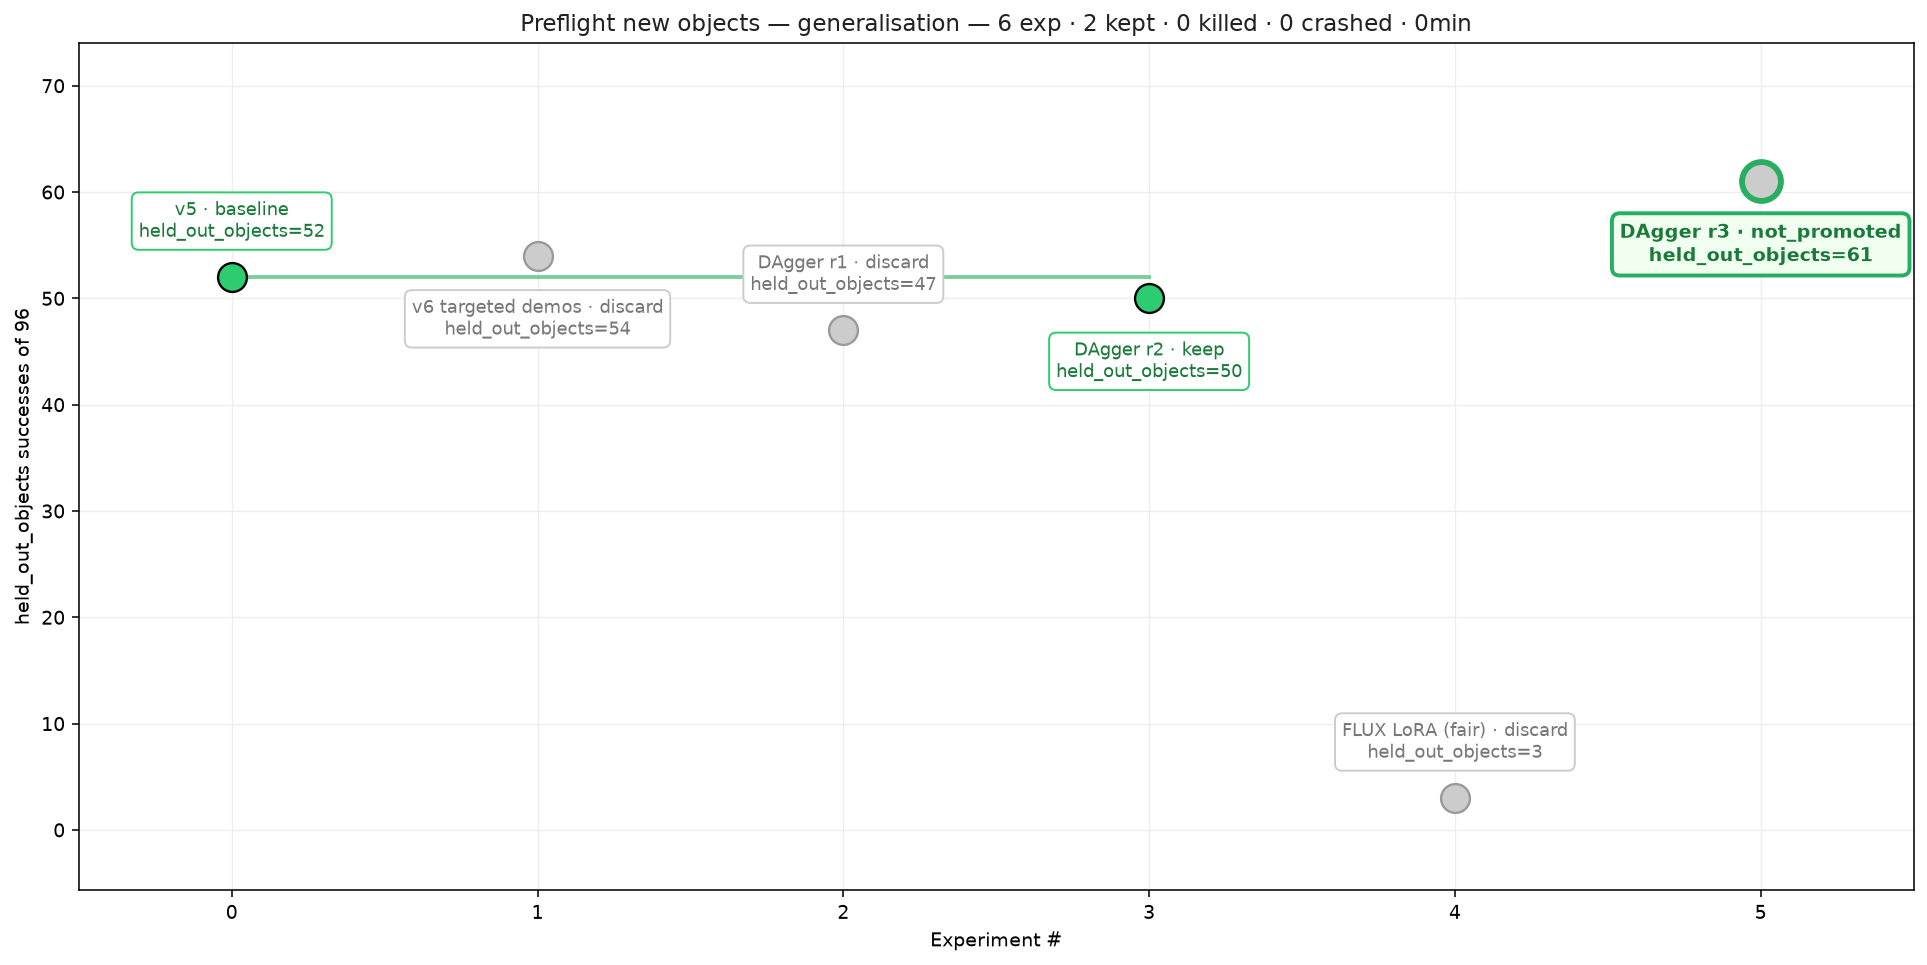
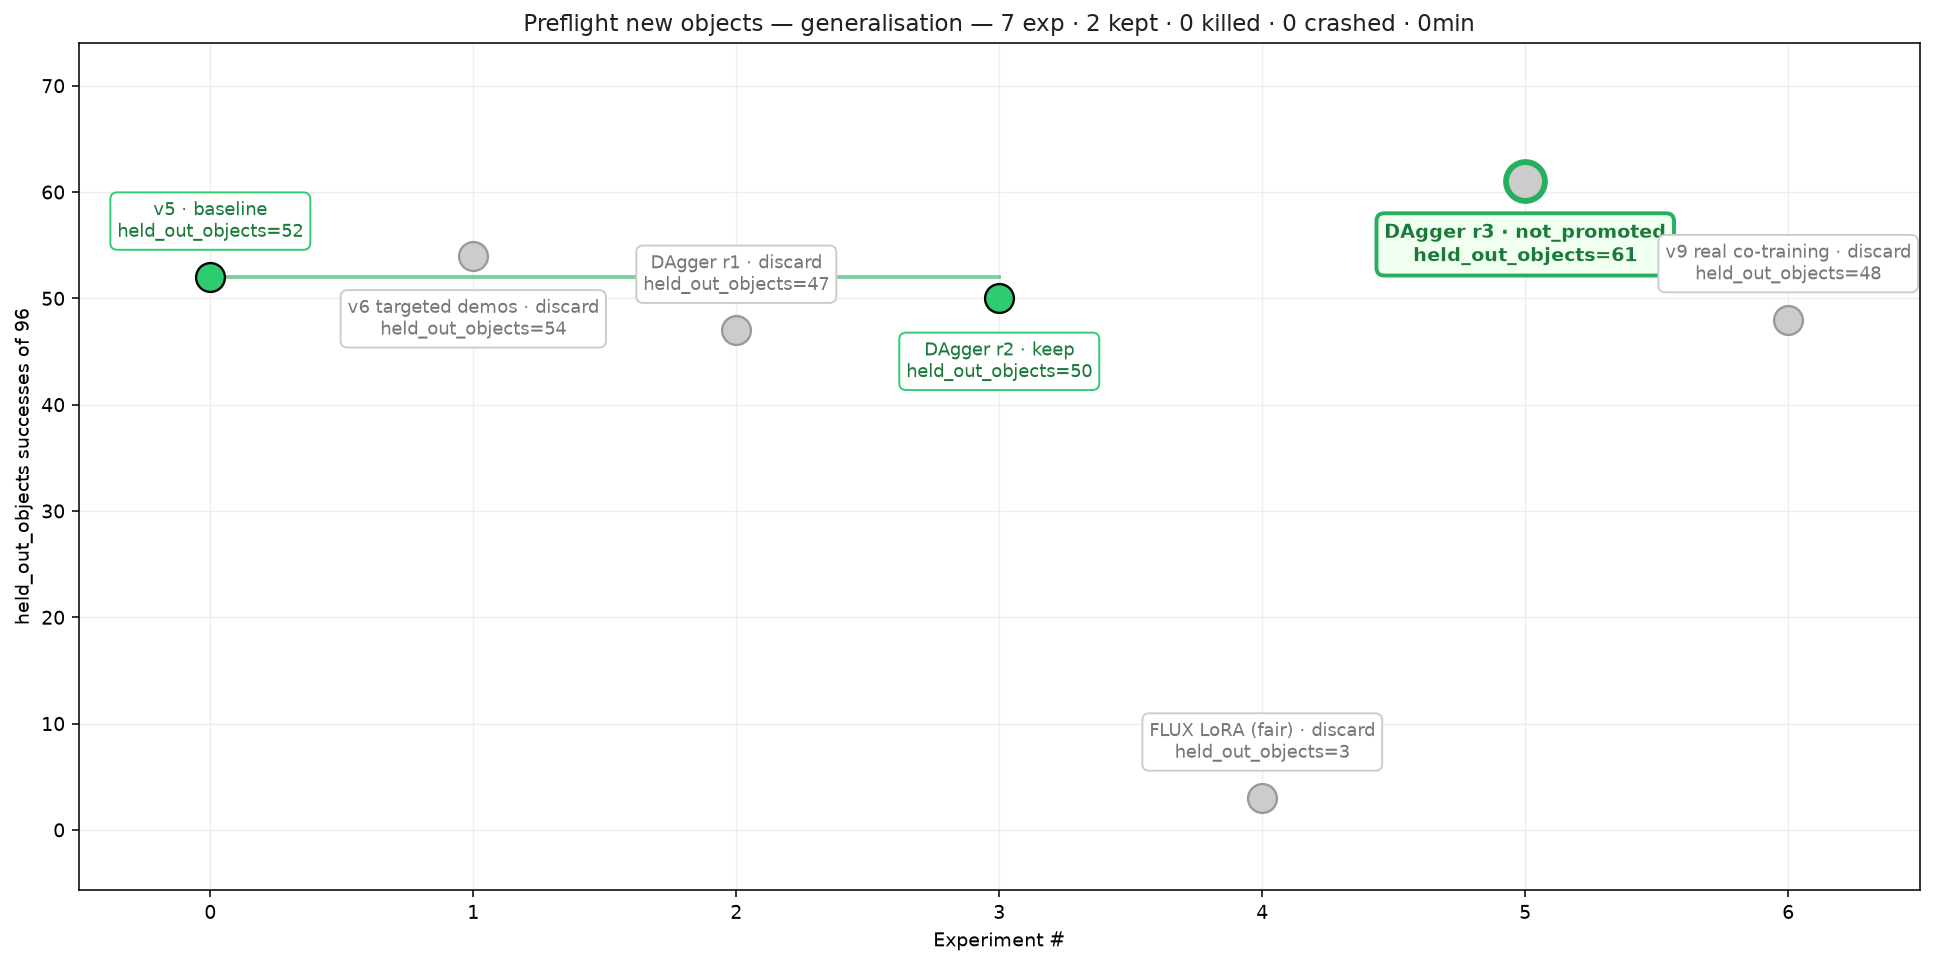
docs: v9 real-data co-training discarded (373 vs 438, no gain on new objects)

diff --git a/docs/artifact.html b/docs/artifact.html
@@ -64,7 +64,7 @@ footer { font-size: 13px; color: var(--muted); }
 
 <main>
 <header>
-  <div class="eyebrow">Preflight · SO-101 · MuJoCo twin · updated 11 Oct 2026, 07:30 UTC</div>
+  <div class="eyebrow">Preflight · SO-101 · MuJoCo twin · updated 11 Oct 2026, 15:30 UTC</div>
   <h1>Nine attempts to make a GR00T arm policy generalise. One passed the gate; one moved new objects.</h1>
   <p class="lede">Every candidate runs the same six suites (12 scenes × 8 perturbed rehearsals, seed 42) and is compared with v5 scene by scene (paired McNemar). It is promoted only with a pooled gain and no suite significantly worse, a gate fixed before the first round was scored. Everything is simulation; the physical arm has not arrived.</p>
   <div class="headline">
@@ -77,8 +77,8 @@ footer { font-size: 13px; color: var(--muted); }
 
 <section>
   <h2>Scoreboard</h2>
-  <p class="takeaway">DAgger round 2 cleared the gate; round 3 scores higher still (481) but its pooled gain over round 2 is within noise. FLUX, trained on the same demos for the same volume, collapses.</p>
-  <div class="chart"><div class="scroll"><svg viewBox="0 0 640 220" width="100%" style="min-width:520px" role="img" aria-label="Pooled successes of 576 per candidate"><text x="162" y="24" text-anchor="end" class="lab">v5</text><rect x="170" y="10" width="328.5" height="20" class="b-base"/><text x="504.5" y="24" class="lab">438</text><text x="162" y="54" text-anchor="end" class="lab">v6 targeted demos</text><rect x="170" y="40" width="315.8" height="20" class="b-base"/><text x="491.8" y="54" class="lab">421</text><text x="162" y="84" text-anchor="end" class="lab">DAgger r1</text><rect x="170" y="70" width="327.0" height="20" class="b-base"/><text x="503.0" y="84" class="lab">436</text><text x="162" y="114" text-anchor="end" class="lab">DAgger r2</text><rect x="170" y="100" width="348.0" height="20" class="b-good"/><text x="524.0" y="114" class="lab">464</text><text x="162" y="144" text-anchor="end" class="lab">DAgger r3</text><rect x="170" y="130" width="360.8" height="20" class="b-good"/><text x="536.8" y="144" class="lab">481</text><text x="162" y="174" text-anchor="end" class="lab">FLUX LoRA (fair)</text><rect x="170" y="160" width="37.5" height="20" class="b-bad"/><text x="213.5" y="174" class="lab">50</text><line x1="498.5" y1="4" x2="498.5" y2="194" class="ref"/><text x="502.5" y="206">v5 = 438</text><text x="602.0" y="206" text-anchor="end">of 576</text></svg></div></div>
+  <p class="takeaway">DAgger round 2 cleared the gate; round 3 scores higher still (481) but its pooled gain over round 2 is within noise. Real co-training (v9) loses 65; FLUX, trained on the same demos for the same volume, collapses.</p>
+  <div class="chart"><div class="scroll"><svg viewBox="0 0 640 250" width="100%" style="min-width:520px" role="img" aria-label="Pooled successes of 576 per candidate"><text x="162" y="24" text-anchor="end" class="lab">v5</text><rect x="170" y="10" width="328.5" height="20" class="b-base"/><text x="504.5" y="24" class="lab">438</text><text x="162" y="54" text-anchor="end" class="lab">v6 targeted demos</text><rect x="170" y="40" width="315.8" height="20" class="b-base"/><text x="491.8" y="54" class="lab">421</text><text x="162" y="84" text-anchor="end" class="lab">DAgger r1</text><rect x="170" y="70" width="327.0" height="20" class="b-base"/><text x="503.0" y="84" class="lab">436</text><text x="162" y="114" text-anchor="end" class="lab">DAgger r2</text><rect x="170" y="100" width="348.0" height="20" class="b-good"/><text x="524.0" y="114" class="lab">464</text><text x="162" y="144" text-anchor="end" class="lab">DAgger r3</text><rect x="170" y="130" width="360.8" height="20" class="b-good"/><text x="536.8" y="144" class="lab">481</text><text x="162" y="174" text-anchor="end" class="lab">v9 real co-training</text><rect x="170" y="160" width="279.8" height="20" class="b-bad"/><text x="455.8" y="174" class="lab">373</text><text x="162" y="204" text-anchor="end" class="lab">FLUX LoRA (fair)</text><rect x="170" y="190" width="37.5" height="20" class="b-bad"/><text x="213.5" y="204" class="lab">50</text><line x1="498.5" y1="4" x2="498.5" y2="224" class="ref"/><text x="502.5" y="236">v5 = 438</text><text x="602.0" y="236" text-anchor="end">of 576</text></svg></div></div>
 </section>
 
 <section>
@@ -136,7 +136,7 @@ flowchart LR
     <div class="row"><span class="pill rejected">Rejected</span><div><strong>Visual domain randomisation (v7)</strong>Lifts the Seeed wrist-mount scenes 15 → 53 but drops clean_many 81 → 58; 1/50 on so101-benchmark.</div></div>
     <div class="row"><span class="pill flat">Kept</span><div><strong>RL expert (residual PPO)</strong>74.0% held-out snapshot recovery vs the scripted expert's 45.9%. Plain PPO stopped at 1% after its reward paid hovering; shaped PPO from scratch stays near 6%.</div></div>
     <div class="row"><span class="pill flat">Flat</span><div><strong>Best-of-8 chunk consensus</strong>Medoid of 8 flow-matching samples on round 2: held_out_objects 55 vs 50 (p=0.41), clean_many 87 vs 86. Within noise at 8× inference cost.</div></div>
-    <div class="row"><span class="pill running">Training</span><div><strong>Real-data co-training (v9, v9b)</strong>400 ArmnetBench SO-101 teleop demos of new objects at 23% of samples; v9b adds 515 successful real rollouts.</div></div>
+    <div class="row"><span class="pill rejected">Rejected</span><div><strong>Real-data co-training (v9)</strong>400 ArmnetBench SO-101 teleop demos of new objects at 23% of samples: 373 vs 438, held_out_objects 48 vs 52 (no gain), significantly worse on three suites, 0/50 externally. v9b (plus 515 real rollouts) is queued pending a decision.</div></div>
   </div>
 </section>
 

diff --git a/docs/artifact.template.html b/docs/artifact.template.html
@@ -64,7 +64,7 @@ footer { font-size: 13px; color: var(--muted); }
 
 <main>
 <header>
-  <div class="eyebrow">Preflight · SO-101 · MuJoCo twin · updated 11 Oct 2026, 07:30 UTC</div>
+  <div class="eyebrow">Preflight · SO-101 · MuJoCo twin · updated 11 Oct 2026, 15:30 UTC</div>
   <h1>Nine attempts to make a GR00T arm policy generalise. One passed the gate; one moved new objects.</h1>
   <p class="lede">Every candidate runs the same six suites (12 scenes × 8 perturbed rehearsals, seed 42) and is compared with v5 scene by scene (paired McNemar). It is promoted only with a pooled gain and no suite significantly worse, a gate fixed before the first round was scored. Everything is simulation; the physical arm has not arrived.</p>
   <div class="headline">
@@ -77,7 +77,7 @@ footer { font-size: 13px; color: var(--muted); }
 
 <section>
   <h2>Scoreboard</h2>
-  <p class="takeaway">DAgger round 2 cleared the gate; round 3 scores higher still (481) but its pooled gain over round 2 is within noise. FLUX, trained on the same demos for the same volume, collapses.</p>
+  <p class="takeaway">DAgger round 2 cleared the gate; round 3 scores higher still (481) but its pooled gain over round 2 is within noise. Real co-training (v9) loses 65; FLUX, trained on the same demos for the same volume, collapses.</p>
   <div class="chart"><!--POOLED--></div>
 </section>
 
@@ -136,7 +136,7 @@ flowchart LR
     <div class="row"><span class="pill rejected">Rejected</span><div><strong>Visual domain randomisation (v7)</strong>Lifts the Seeed wrist-mount scenes 15 → 53 but drops clean_many 81 → 58; 1/50 on so101-benchmark.</div></div>
     <div class="row"><span class="pill flat">Kept</span><div><strong>RL expert (residual PPO)</strong>74.0% held-out snapshot recovery vs the scripted expert's 45.9%. Plain PPO stopped at 1% after its reward paid hovering; shaped PPO from scratch stays near 6%.</div></div>
     <div class="row"><span class="pill flat">Flat</span><div><strong>Best-of-8 chunk consensus</strong>Medoid of 8 flow-matching samples on round 2: held_out_objects 55 vs 50 (p=0.41), clean_many 87 vs 86. Within noise at 8× inference cost.</div></div>
-    <div class="row"><span class="pill running">Training</span><div><strong>Real-data co-training (v9, v9b)</strong>400 ArmnetBench SO-101 teleop demos of new objects at 23% of samples; v9b adds 515 successful real rollouts.</div></div>
+    <div class="row"><span class="pill rejected">Rejected</span><div><strong>Real-data co-training (v9)</strong>400 ArmnetBench SO-101 teleop demos of new objects at 23% of samples: 373 vs 438, held_out_objects 48 vs 52 (no gain), significantly worse on three suites, 0/50 externally. v9b (plus 515 real rollouts) is queued pending a decision.</div></div>
   </div>
 </section>
 

diff --git a/docs/report.tex b/docs/report.tex
@@ -108,6 +108,8 @@ suite.
 wrist-camera mount and table texture do not.
 \item \textbf{Visual domain randomisation (v7)}: the Seeed wrist mount alone drops v5 from 81 to 15 on clean\_many's scenes;
 v7 lifts that to 53 but regresses clean\_many itself to 58, and scores 1/50 externally. Not promoted.
+\item \textbf{Real-data co-training (v9)}: 400 ArmnetBench SO-101 teleop demos of new objects at 23\% of samples score 373 vs 438;
+held\_out\_objects 48 vs 52 ($p=0.59$), worse on clean\_many, clean\_top\_down\_many and real\_1\_pomade\_tin ($p\le0.043$), 0/50 externally.
 \item \textbf{Best-of-8 consensus} (medoid of 8 sampled chunks, round 2): held\_out\_objects 55 vs 50 ($p=0.41$),
 clean\_many 87 vs 86; within noise at $8\times$ inference.
 \item \textbf{RL expert} (to replace the scripted expert): plain PPO on privileged state reached 1\% held-out recovery
@@ -129,8 +131,7 @@ fits the slow-start, no-contact pattern, but has not been tested by retraining.
 \end{itemize}
 
 \section{Next}
-A round~3 retrain to test replication; round~4 with the residual RL expert recording recoveries; co-training with 400 real
-ArmnetBench SO-101 demos of new objects (23\% of samples), plus 515 successful real rollouts as an ablation; and an RL
+A round~3 retrain to test replication; round~4 with the residual RL expert recording recoveries; and an RL
 expert that can recover dropped and held blocks. Code, PRs and runs: \url{\repo}, W\&B project \texttt{chaleong/preflight}.
 
 \end{document}

diff --git a/scripts/build_artifact.py b/scripts/build_artifact.py
@@ -17,6 +17,7 @@ SCORES = {  # successes of 96 per suite, seed 42
     "DAgger r1": [47, 76, 82, 77, 78, 76],
     "DAgger r2": [50, 76, 86, 85, 86, 81],
     "DAgger r3": [61, 80, 86, 88, 85, 81],
+    "v9 real co-training": [48, 66, 62, 69, 62, 66],
     "FLUX LoRA (fair)": [3, 11, 9, 17, 6, 4],
 }
 # McNemar (+, -, p) of round 2 vs v5 per suite, from `scripts/benchmark.py compare` on the two bench JSONs

diff --git a/docs/generalisation-diagnosis.md b/docs/generalisation-diagnosis.md
@@ -50,7 +50,7 @@ Ranges are two runs of the same checkpoint. Re-runs move a cell by up to ±9, so
 
 1. **Retrain round 3** (queued after v9) to see whether held_out_objects 61 replicates, then **round 4 with the residual RL expert recording recoveries**, which roughly doubles the recoverable states. Failure-state synthesis (CARE, arXiv 2609.24118; Recova, arXiv 2610.01178) is the other way to grow the yield; see [`reports/so101-generalisation-sota-2026-10-11.md`](../reports/so101-generalisation-sota-2026-10-11.md).
 2. **FLUX is dropped** (#18): GR00T is the base going forward.
-3. **Data lever running:** co-training with 400 real ArmnetBench demos of new objects (#21), aimed at held_out_objects. Best-of-8 is closed (#24); an outcome-trained verifier (DiVeR) is the version of test-time sampling worth trying.
+3. **Real-data co-training is closed** (#21): v9 (400 ArmnetBench demos at 23%) scores 373 vs 438, held_out_objects 48 vs 52, significantly worse on three suites, 0/50 externally; failures shift to pushed and knocked_place. Best-of-8 is closed too (#24); an outcome-trained verifier (DiVeR) is the version of test-time sampling worth trying.
 4. **Train with the wrist mount randomised from the start, from the hqfang base**, instead of continuing v5. That should keep v7's +38 on the Seeed mount without its internal regression.
 5. **The rest of the external gap**: with the wrist mount handled internally, v7 still scores 1/50. Compare so101-benchmark's front-camera framing, start pose and episode length next.
 6. **Grasp quality is now the main internal failure** (pushed and dropped). The scripted expert always grasps top-down at the centre; varied grasp offsets in its demos would show the policy corrected grasps.

diff --git a/docs/experiments/so101/wandb_narrative.md b/docs/experiments/so101/wandb_narrative.md
@@ -1,6 +1,6 @@
 ## Highlights
 
-**Status, 11 Oct 2026 06:45 UTC.** DAgger round 2 is the served policy. Round 3 retrain and v9 real-data co-training are running. Everything is simulation; the physical SO-101 has not arrived.
+**Status, 11 Oct 2026 15:30 UTC.** DAgger round 2 is the served policy. The round 3 retrain is running; v9 real-data co-training was discarded. Everything is simulation; the physical SO-101 has not arrived.
 
 | | Pooled (of 576) | held_out_objects (of 96) | so101-benchmark (of 50) |
 |---|---|---|---|
@@ -49,9 +49,10 @@ The served policy is GR00T N1.7 (`hqfang/groot-so100_101`) fine-tuned with LeRob
 - Targeted demos (v6): staged mistakes and decoys did not move any suite.
 - Visual domain randomisation (v7): fixes the wrist-mount scenes but costs clean_many 23 successes.
 - Plain PPO from scratch on privileged state: reward paid hovering; 1% recovery.
+- Real-data co-training (v9, 400 ArmnetBench demos at 23%): 373 vs 438, no gain on new objects, worse on three suites.
 
 ## Next
 
-- Running: DAgger round 3 retrain (after v9), to check whether held_out_objects 61 replicates; v9 real-data co-training (400 ArmnetBench teleop demos at 23% of samples), then v9b with 515 real rollouts added.
+- Running: DAgger round 3 retrain, to check whether held_out_objects 61 replicates. v9b (v9 plus 515 real rollouts) is queued pending a decision, since v9 regressed.
 - Queued: DAgger round 4 with the residual RL expert recording recoveries; the scripted expert recovers 40% of kept states, the RL expert about 72%.
 - Deadline: hackathon submission 30 Oct 2026 17:00 UTC. The physical arm has not arrived; the repo will be updated with live results when it does.

diff --git a/docs/experiment-card.md b/docs/experiment-card.md
@@ -40,6 +40,7 @@ and what remains unmeasured. Results and reasoning: [`report.pdf`](report.pdf) (
 | DAgger r3 retrain | queued | — | first r3 checkpoint deleted by the round script on KEEP |
 | Best-of-8 | 2 suites × 96 on round 2 | 142 succeeded | within noise; not adopted |
 | RL expert | plain PPO (stopped at 4.4M steps), 2 relaunches killed for bugs | residual PPO: 74.0% held-out snapshot recovery at 3.0M steps; shaped PPO ~6% training success | runs tagged `superseded` in W&B |
+| v9 real co-training | 12k steps, 6 suites × 96 + 50 external | 373/576, 0/50 | DISCARD: worse on 3 suites |
 | ArmnetBench conversion | 400 teleop + 515 successful rollouts selected from 2,499 episodes | all 915 converted | 1,532 failed and 52 suboptimal rollouts excluded by design |
 
 ## Filters: before or after seeing results
@@ -56,5 +57,5 @@ and what remains unmeasured. Results and reasoning: [`report.pdf`](report.pdf) (
 - Anything on the physical arm (not delivered).
 - More than one training seed per checkpoint, or more than one benchmark seed.
 - Whether FLUX's closed-loop failure comes from its 8-frame history or its delta actions (hypothesis, untested).
-- New-object generalisation from real data (v9 co-training running).
+- v9b (v9 plus 515 successful real rollouts), queued pending a decision.
 - Whether round 3's held_out_objects gain (p=0.043, one suite of six, uncorrected) replicates on a retrain.

diff --git a/README.md b/README.md
@@ -79,6 +79,7 @@ scene by scene with McNemar tests; a candidate is promoted only with a pooled ga
 | **DAgger round 2** (recoveries ~34%) | **464** | 50 | — | **promoted** (+26; real_1_pomade_tin 74 → 86, p=0.004) |
 | DAgger round 3 (harvested with round 2) | 481 | **61** | — | kept: pooled +17 over round 2 within noise; held_out_objects 50 → 61 (p=0.043); retrain queued |
 | Best-of-8 chunk consensus on round 2 (2 suites) | — | 55 | — | within noise (p=0.41); not adopted |
+| v9: + 400 real ArmnetBench demos (23% of samples) | 373 | 48 | 0/50 | worse on 3 suites (p≤0.043); dropped |
 | FLUX 3 Action LoRA, fair (v5's data and volume) | 50 | 3 | 0/7 | worse on every suite; dropped |
 
 ```mermaid
